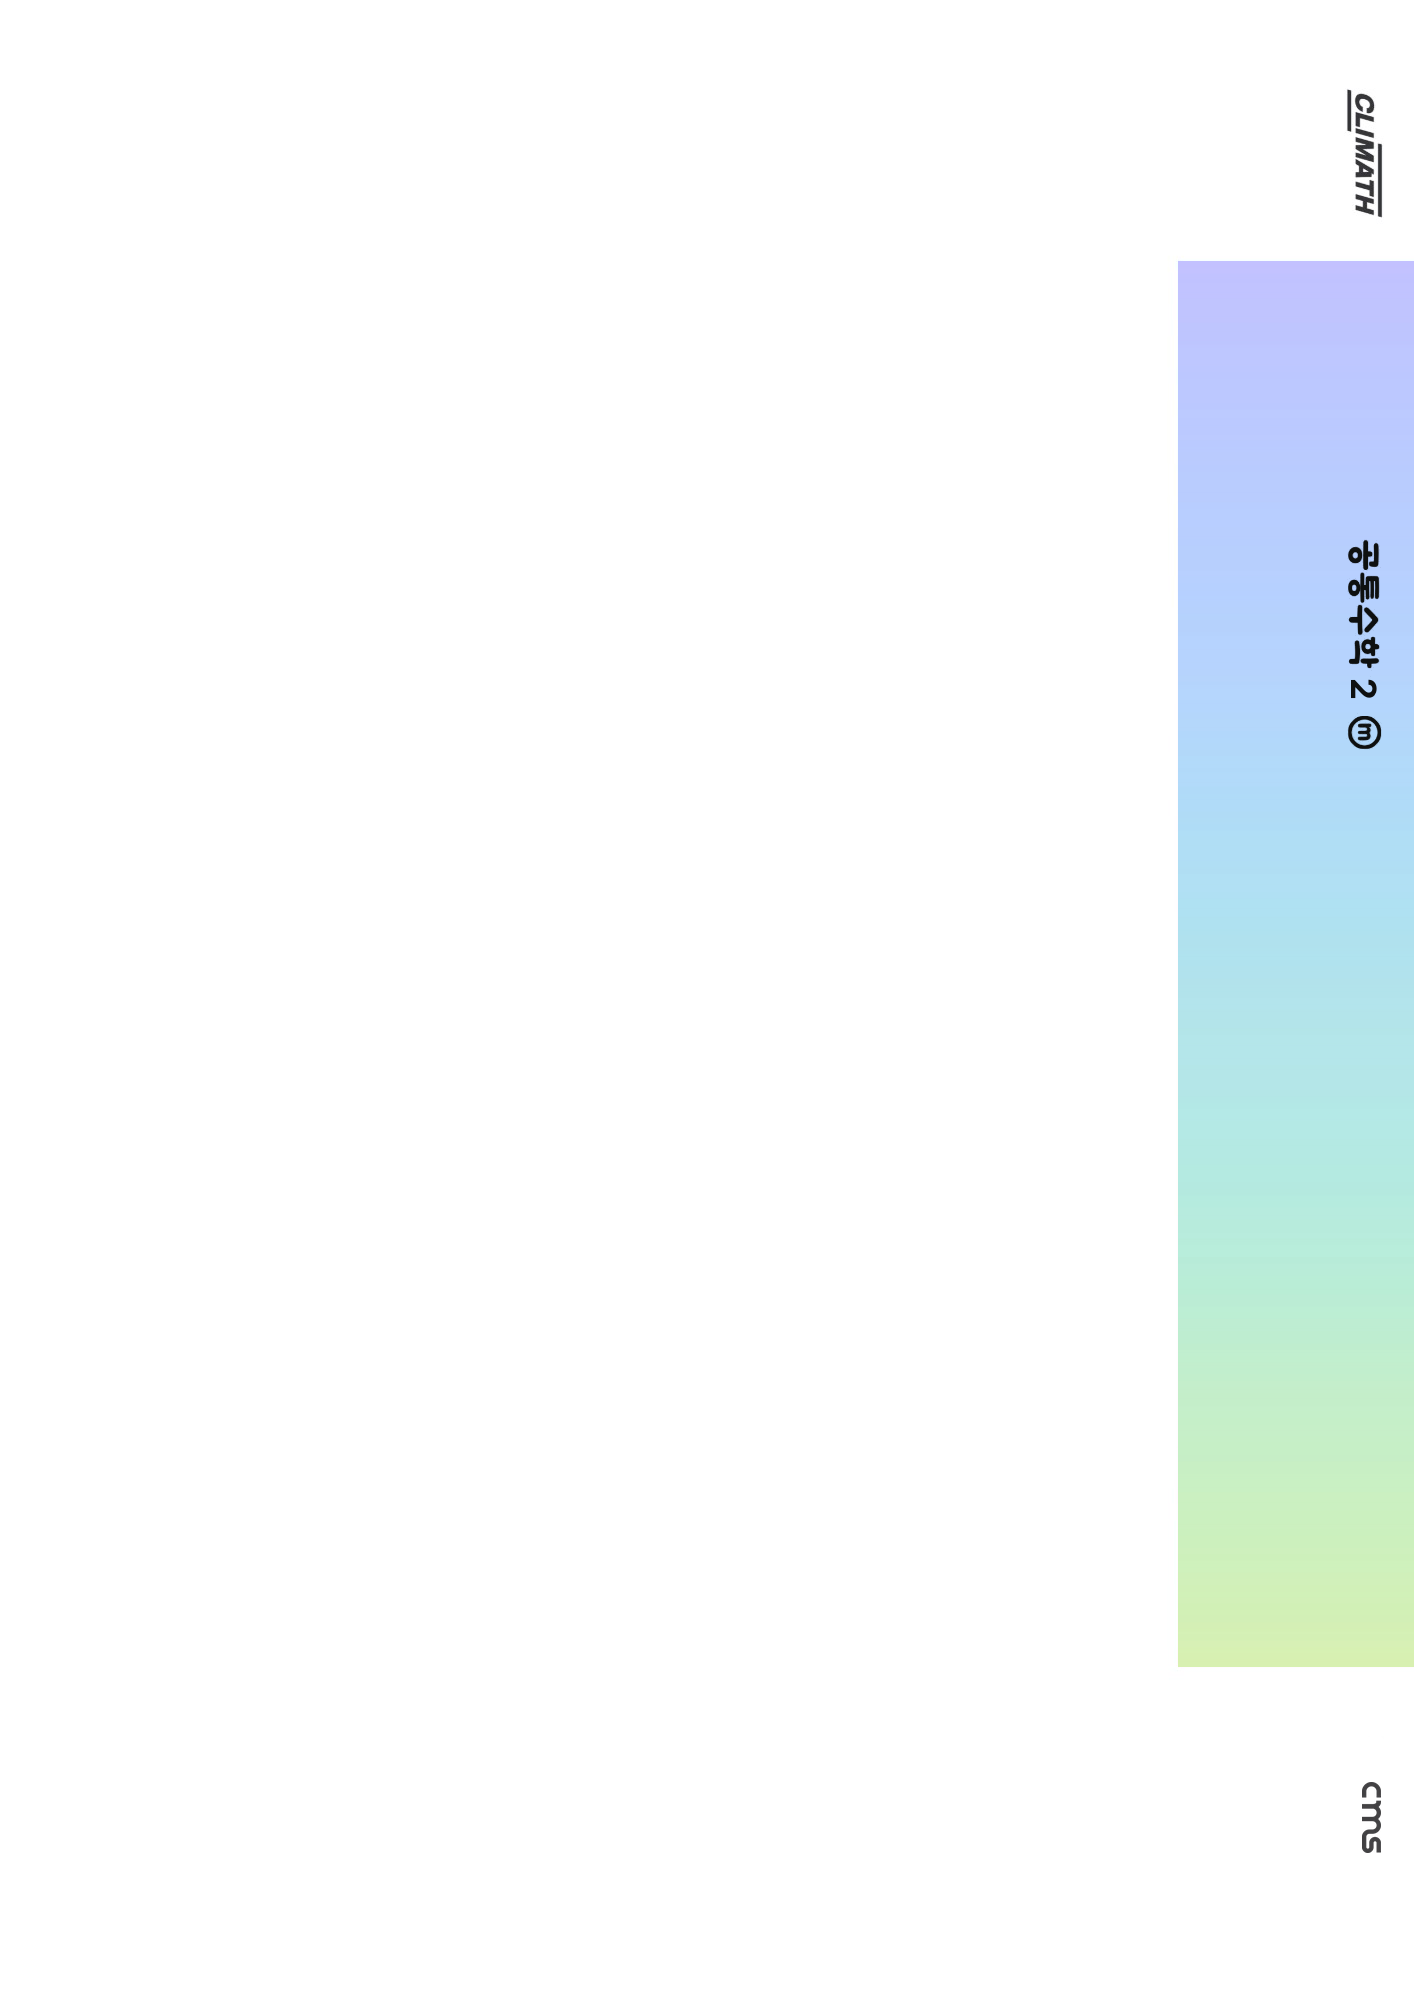
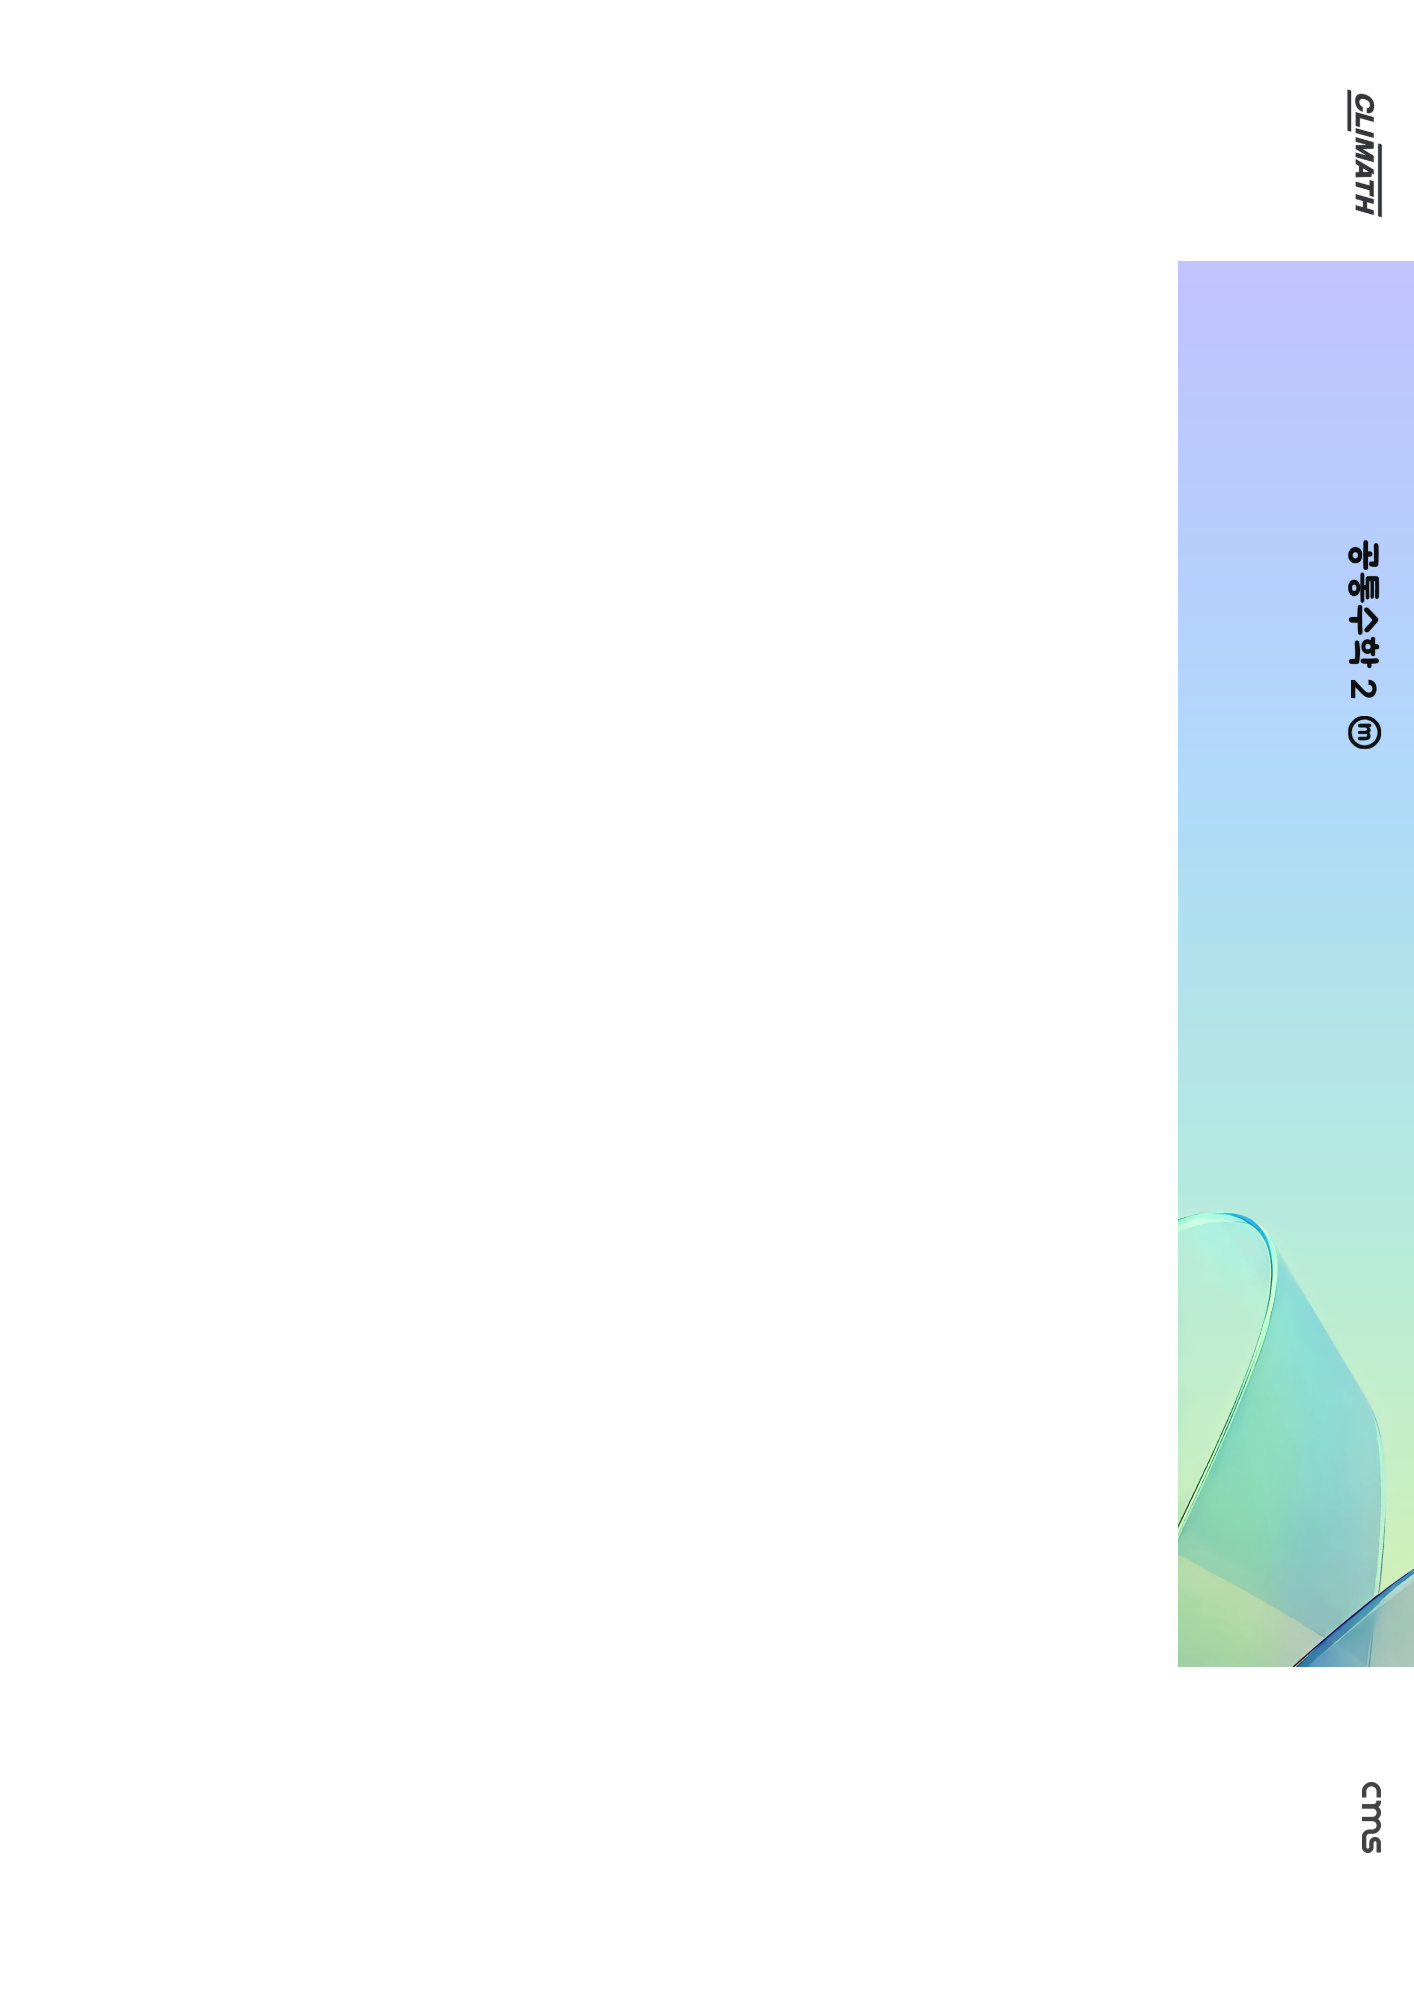
CLIMATH(m) 공통수학2 표지: 시안 B 확정 — 그래픽 오른쪽으로, 작은 리본을 책등·뒤표지까지 이어 그림
Claude-Session: https://claude.ai/code/session_014WGsHSxW1TsHk3SpmxydRw

Changed region(s): [[0.8091, 0.62, 1.0, 0.837]]

diff --git a/유형문제집/도구/cover/make_bg_c2.py b/유형문제집/도구/cover/make_bg_c2.py
@@ -75,3 +75,39 @@ for name, v in variants.items():
     Image.fromarray(out).save(os.path.join(outdir, "bg_%s.png" % name))
     print(name, v)
 Image.fromarray((Bb + Db).clip(0, 255).astype(np.uint8)).save(os.path.join(outdir, "bg_0.png"))   # 비교용: 큰 리본만
+
+# ================================================================ 시안 B 확정판(2026-11-19): 펼친 표지(뒤표지 띠 | 책등 | 앞표지)
+# 사용자: 'B가 더 마음에 들어, 그래픽이 전반적으로 오른쪽으로 좀 더(큰 그래픽 윗부분이 조금 잘리겠지), 왼쪽 아래 작은 그래픽은 잘 연장해서 책등과 뒤표지까지'.
+# - 한 장으로 이어 붙인 띠(뒤표지 띠 302 + 책등 236 + 앞표지 1474 = 2012 × 1406)에 그려서 세 조각으로 자름 → 이음매에서 그림이 이어짐.
+# - 큰 리본: 오른쪽으로 150px(앞표지 폭의 약 10%) 옮김 → 오른쪽 위가 조금 더 잘림.
+# - 작은 리본: 시안 B와 같은 모양(뒤집지 않음)을 0.75배·75°로 길게 눕혀, 뒤표지 띠 왼쪽 끝에서 들어와 책등 위로 휘고 앞표지 왼쪽 아래로 내려가
+#   아래 가장자리 밖으로 나가게(잘린 두 끝이 모두 띠 밖). 바탕은 앞표지 띠 왼쪽 끝 세로 색을 뒤표지·책등 쪽으로 이어 씀.
+BK, SP = 302, 236
+X0 = BK + SP
+WT = X0 + BW
+SHIFT = 150
+Bs = cv2.resize(B, (SW, SH), interpolation=cv2.INTER_AREA)
+Ds = cv2.resize(delta, (SW, SH), interpolation=cv2.INTER_AREA)
+# 띠 윗선이 원래 그림에서 뒤표지 256·책등 261·앞표지 260으로 조금씩 달라, 펼친 띠는 실제 높이(y 256~1666)로 그려 각자 자리에서 자름
+TOP = {"back": 256, "spine": 261, "front": 260}
+Y0w = min(TOP.values())
+HC = BH + max(TOP.values()) - Y0w
+fo = TOP["front"] - Y0w
+bgw = np.zeros((HC, WT, 3), np.float32)
+Dw = np.zeros_like(bgw)
+fb = Bs[:, off:off + BW]
+bgw[fo:fo + BH, X0:] = fb
+bgw[:fo, X0:] = fb[:1]
+bgw[fo + BH:, X0:] = fb[-1:]
+bgw[:, :X0] = bgw[:, X0:X0 + 1]
+st = off - SHIFT
+srcD = Ds[:, max(0, st):st + BW]
+Dw[fo:fo + BH, X0 + max(0, -st):X0 + max(0, -st) + srcD.shape[1]] = srcD[:, :BW - max(0, -st)]
+place(Dw, RIB, s=0.75 * sc, ang=75, cx=X0 - 150, cy=1260 + fo, flip=False)
+wrap = (bgw + Dw).clip(0, 255).astype(np.uint8)
+cut = lambda k, x0, x1: wrap[TOP[k] - Y0w:TOP[k] - Y0w + BH, x0:x1]
+Image.fromarray(cut("back", 0, BK)).save(os.path.join(outdir, "wrap_back.png"))
+Image.fromarray(cut("spine", BK, X0)).save(os.path.join(outdir, "wrap_spine.png"))
+Image.fromarray(cut("front", X0, WT)).save(os.path.join(outdir, "wrap_front.png"))
+Image.fromarray(wrap).save(os.path.join(outdir, "wrap_all.png"))
+print("펼친 띠", wrap.shape, "큰 리본 오른쪽으로", SHIFT, "px")

diff --git a/유형문제집/도구/cover/climath_cover_c2.py b/유형문제집/도구/cover/climath_cover_c2.py
@@ -17,6 +17,8 @@ from PIL import Image, ImageDraw, ImageFont
 front, spine, back, newbg, pdir, rfont, outdir = sys.argv[1:8]
 FRONT_BG = sys.argv[8] if len(sys.argv) > 8 else None      # 2026-11-19: 앞표지 띠 바탕을 따로 짠 그림(make_bg_c2.py, 띠 크기)
 SUFFIX = sys.argv[9] if len(sys.argv) > 9 else ""
+SPINE_BG = sys.argv[10] if len(sys.argv) > 10 else None    # 책등·뒤표지 띠 바탕(펼친 표지에서 잘라 낸 것)
+BACK_BG = sys.argv[11] if len(sys.argv) > 11 else None
 os.makedirs(outdir, exist_ok=True)
 BLACK = np.array((14.0, 16.0, 16.0))
 WHITE = np.array((252.0, 252.0, 252.0))
@@ -202,7 +204,7 @@ sub = (slice(Y, Y + hh), slice(X, X + ww))
 alpha[sub] = np.maximum(alpha[sub], m2)
 F[sub] = BLACK
 print("  책등 '2' 크기 %.1f → (%d, %d, %d, %d)" % (size, SX0 + X + b2[0], SY0 + Y + b2[1], SX0 + X + b2[2], SY0 + Y + b2[3]))
-im[SY0:SY1, SX0:SX1] = compose(bg_strip(SX1 - SX0, SY1 - SY0), alpha, F)
+im[SY0:SY1, SX0:SX1] = compose(np.asarray(Image.open(SPINE_BG).convert("RGB")).astype(float) if SPINE_BG else bg_strip(SX1 - SX0, SY1 - SY0), alpha, F)
 Image.fromarray(im.clip(0, 255).astype(np.uint8)).save(os.path.join(outdir, "CLIMATH_공통수학2_책등.png"))
 
 # ================================================================ 뒤표지
@@ -210,6 +212,6 @@ im = np.asarray(Image.open(back).convert("RGB")).astype(float)
 BY0, BY1, BX0, BX1 = 256, 1662, 1172, 1474
 band = im[BY0:BY1, BX0:BX1].copy()
 alpha, F = separate(band)
-im[BY0:BY1, BX0:BX1] = compose(bg_strip(BX1 - BX0, BY1 - BY0), alpha, F)
+im[BY0:BY1, BX0:BX1] = compose(np.asarray(Image.open(BACK_BG).convert("RGB")).astype(float) if BACK_BG else bg_strip(BX1 - BX0, BY1 - BY0), alpha, F)
 Image.fromarray(im.clip(0, 255).astype(np.uint8)).save(os.path.join(outdir, "CLIMATH_공통수학2_뒤표지.png"))
 print("뒤표지 띠", (BX0, BY0, BX1, BY1), "앞에 놓인 것", int((alpha > 0.5).sum()), "화소")
